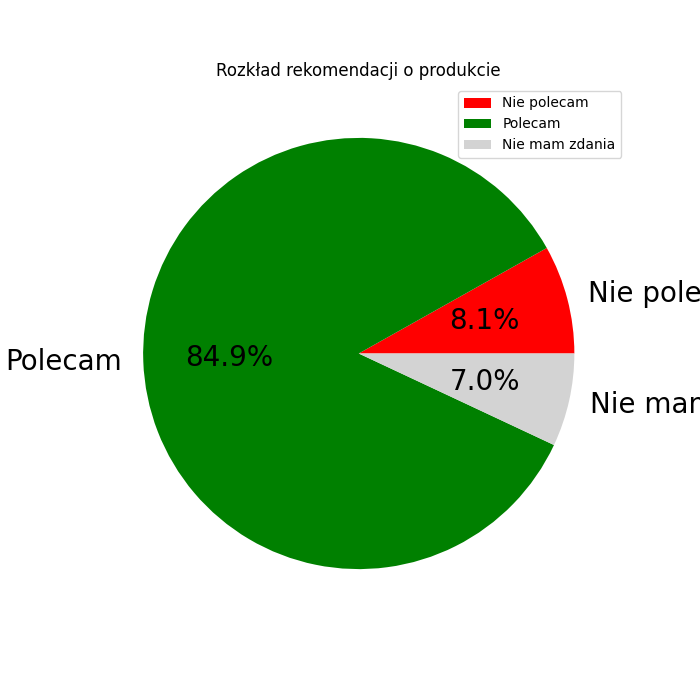
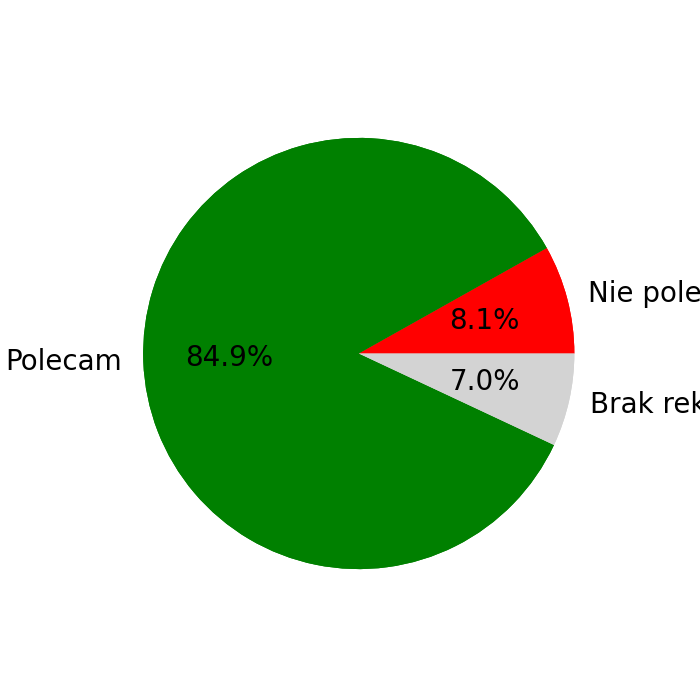
2025-06-11 JŻ

Changed region(s): [[0.3, 0.09, 0.87, 0.24], [0.84, 0.54, 1.0, 0.6]]

diff --git a/app/templates/charts.html b/app/templates/charts.html
@@ -2,9 +2,15 @@
 {% block title %} {{product_id}} - {{product_name}} {% endblock %}
 {% block content %}
 
-<img src="{{ url_for('static', filename='images/charts/' + product_id + '_pie.png') }}" 
-     alt="Wykres dla produktu {{ product_name }}" 
-     class="img-fluid" 
-     style="max-width: 100%; height: auto;">
-     
+<div class="chart-container">
+    <img src="{{ url_for('static', filename='images/charts/' + product_id + '_pie.png') }}" 
+         alt="Wykres kołowy dla produktu {{ product_name }}" 
+         class="img-fluid" 
+         style="max-width: 100%; height: auto;">
+         
+    <img src="{{ url_for('static', filename='images/charts/' + product_id + '_bar.png') }}" 
+         alt="Wykres słupkowy dla produktu {{ product_name }}" 
+         class="img-fluid" 
+         style="max-width: 100%; height: auto;">
+</div>
 {% endblock %}

diff --git a/app/templates/author.html b/app/templates/author.html
@@ -1,5 +1,13 @@
 {% extends "base.html" %}
 {% block title %} {% endblock %}
 {% block content %}
-
+    <div class="text-center mt-4">
+        <h1>Autor projektu</h1>
+        <p>Imię i nazwisko: Jakub Żak</p>
+        <p>Nr albumu: 241442</p>
+    <h4>Pare informacji o autorze: </h4>
+    <p>W przyszłości chciałbym zostać wykładowcą (jako druga robota bo nie oszukujmy się człowiek się z tego nie utrzyma), ponieważ interesuje mnie uczenie innych. Poza tym kocham koty i jestem memiarzem.</p>
+        <p>Pozdrawiam serdecznie każdego który to czyta</p>
+    <p>A tutaj zostawiam link do pięknego koła GameStrategy <a href="https://jakubzak7.github.io/PokerPage/">Link</a>
+    </div>
 {% endblock %}

diff --git a/app/views.py b/app/views.py
@@ -122,12 +122,25 @@ def charts(product_id):
         autopct="%.1f%%",
         figsize=(7, 7),
         title="Rozkład rekomendacji o produkcie",
-        labels=["Nie polecam", "Polecam", "Nie mam zdania"],
+        labels=["Nie polecam", "Polecam", "Brak rekomendacji"],
         legend=True,
         colors=["Red", "Green", "LightGray"],
         fontsize=20,
     )
     plt.savefig(f"./app/static/images/charts/{stats['product_id']}_pie.png")
+    plt.close()
+    
+
+    recommendations.plot.bar(
+        figsize=(10, 6),
+        title="Liczba opinii dla każdej rekomendacji",
+        color=["Red", "Green", "LightGray"],
+        fontsize=12,
+    )
+    plt.ylabel("Liczba opinii")
+    plt.xlabel("Rekomendacje")
+    plt.xticks(rotation=0)
+    plt.savefig(f"./app/static/images/charts/{stats['product_id']}_bar.png")
     plt.close()
 
     return render_template("charts.html",product_id=product_id, product_name=stats['product_name'])
